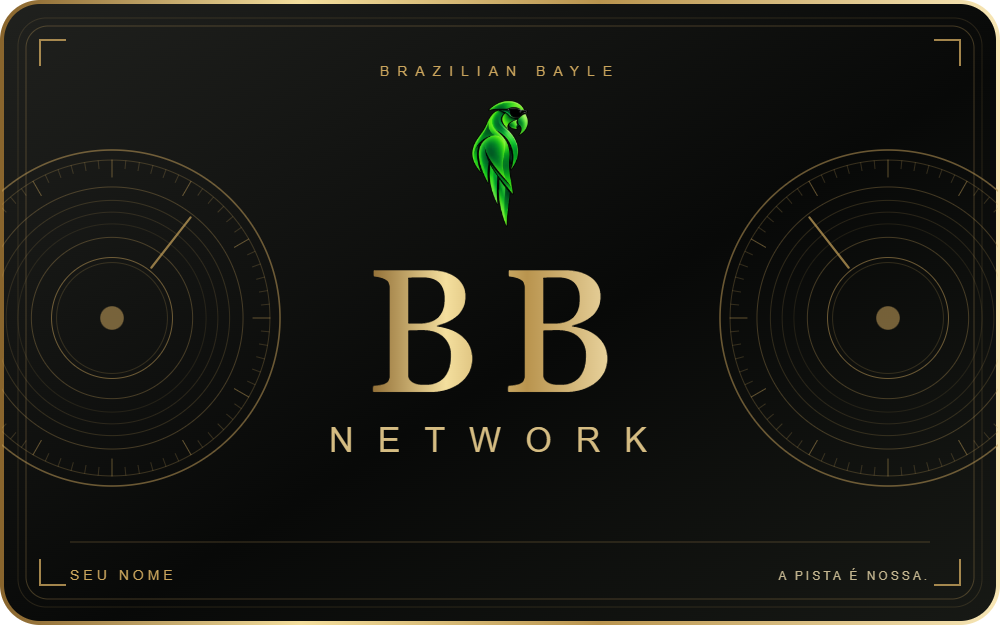
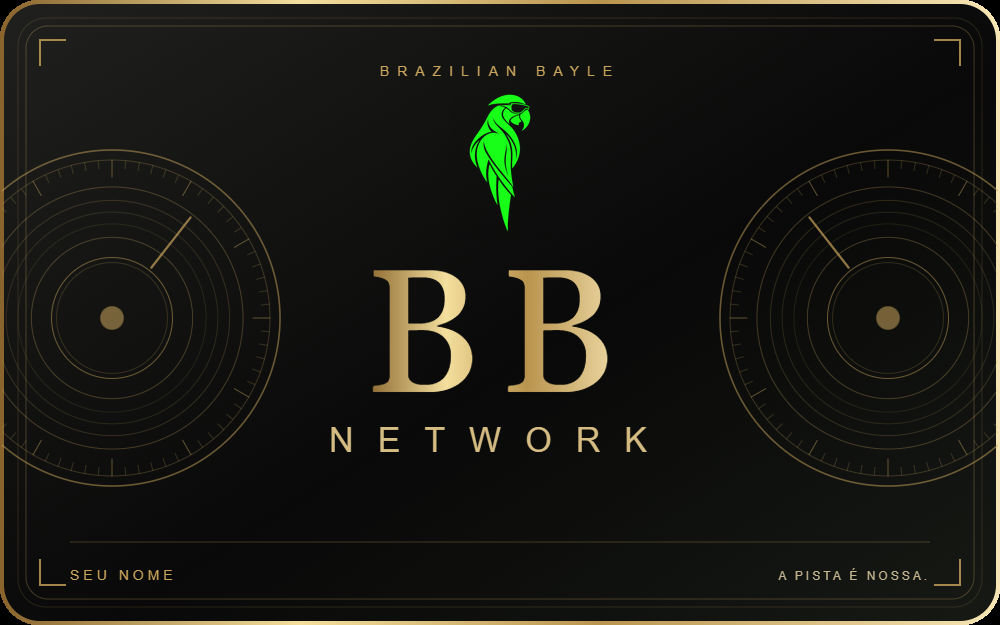
Cartão BB Network: novo papagaio de óculos na frente e no verso

diff --git a/src/pages/clube.html b/src/pages/clube.html
@@ -21,7 +21,7 @@
       <div class="bbn-cta"><a href="#candidatura" class="btn btn-gold">Entrar para o network</a></div>
     </div>
     <div class="club-card-wrap">
-      <div class="club-identity"><figure class="identity-front"><img src="/assets/bb-card-frente-site.png" alt="Frente do cartão BB Network, preto e dourado, com papagaio verde, BB Network em destaque e um disco de DJ de cada lado" width="1000" height="625" loading="lazy"><figcaption>Seu acesso ao bayle.</figcaption></figure><figure class="identity-back"><img src="/assets/bb-card-verso-site.png" alt="Verso do cartão BB Network, com o monograma BB, o nome do membro e o papagaio verde" width="1000" height="625" loading="lazy"><figcaption>A noite tem o seu nome.</figcaption></figure></div>
+      <div class="club-identity"><figure class="identity-front"><img src="/assets/bb-card-frente-site.png?v=2" alt="Frente do cartão BB Network, preto e dourado, com papagaio verde, BB Network em destaque e um disco de DJ de cada lado" width="1000" height="625" loading="lazy"><figcaption>Seu acesso ao bayle.</figcaption></figure><figure class="identity-back"><img src="/assets/bb-card-verso-site.png?v=2" alt="Verso do cartão BB Network, com o monograma BB, o nome do membro e o papagaio verde" width="1000" height="625" loading="lazy"><figcaption>A noite tem o seu nome.</figcaption></figure></div>
     </div>
   </div>
 </section>

diff --git a/src/pages/index.html b/src/pages/index.html
@@ -185,7 +185,7 @@
       <a href="/clube#experiencias" class="btn btn-gold">Conhecer o clube</a>
     </div>
     <div class="club-card-wrap">
-      <div class="club-identity"><figure class="identity-front"><img src="/assets/bb-card-frente-site.png" alt="Frente do cartão BB Network, preto e dourado, com papagaio verde, BB Network em destaque e um disco de DJ de cada lado" width="1000" height="625" loading="lazy"><figcaption>Seu acesso ao bayle.</figcaption></figure><figure class="identity-back"><img src="/assets/bb-card-verso-site.png" alt="Verso do cartão BB Network, com o monograma BB, o nome do membro e o papagaio verde" width="1000" height="625" loading="lazy"><figcaption>A noite tem o seu nome.</figcaption></figure></div>
+      <div class="club-identity"><figure class="identity-front"><img src="/assets/bb-card-frente-site.png?v=2" alt="Frente do cartão BB Network, preto e dourado, com papagaio verde, BB Network em destaque e um disco de DJ de cada lado" width="1000" height="625" loading="lazy"><figcaption>Seu acesso ao bayle.</figcaption></figure><figure class="identity-back"><img src="/assets/bb-card-verso-site.png?v=2" alt="Verso do cartão BB Network, com o monograma BB, o nome do membro e o papagaio verde" width="1000" height="625" loading="lazy"><figcaption>A noite tem o seu nome.</figcaption></figure></div>
     </div>
   </div>
 </section>
